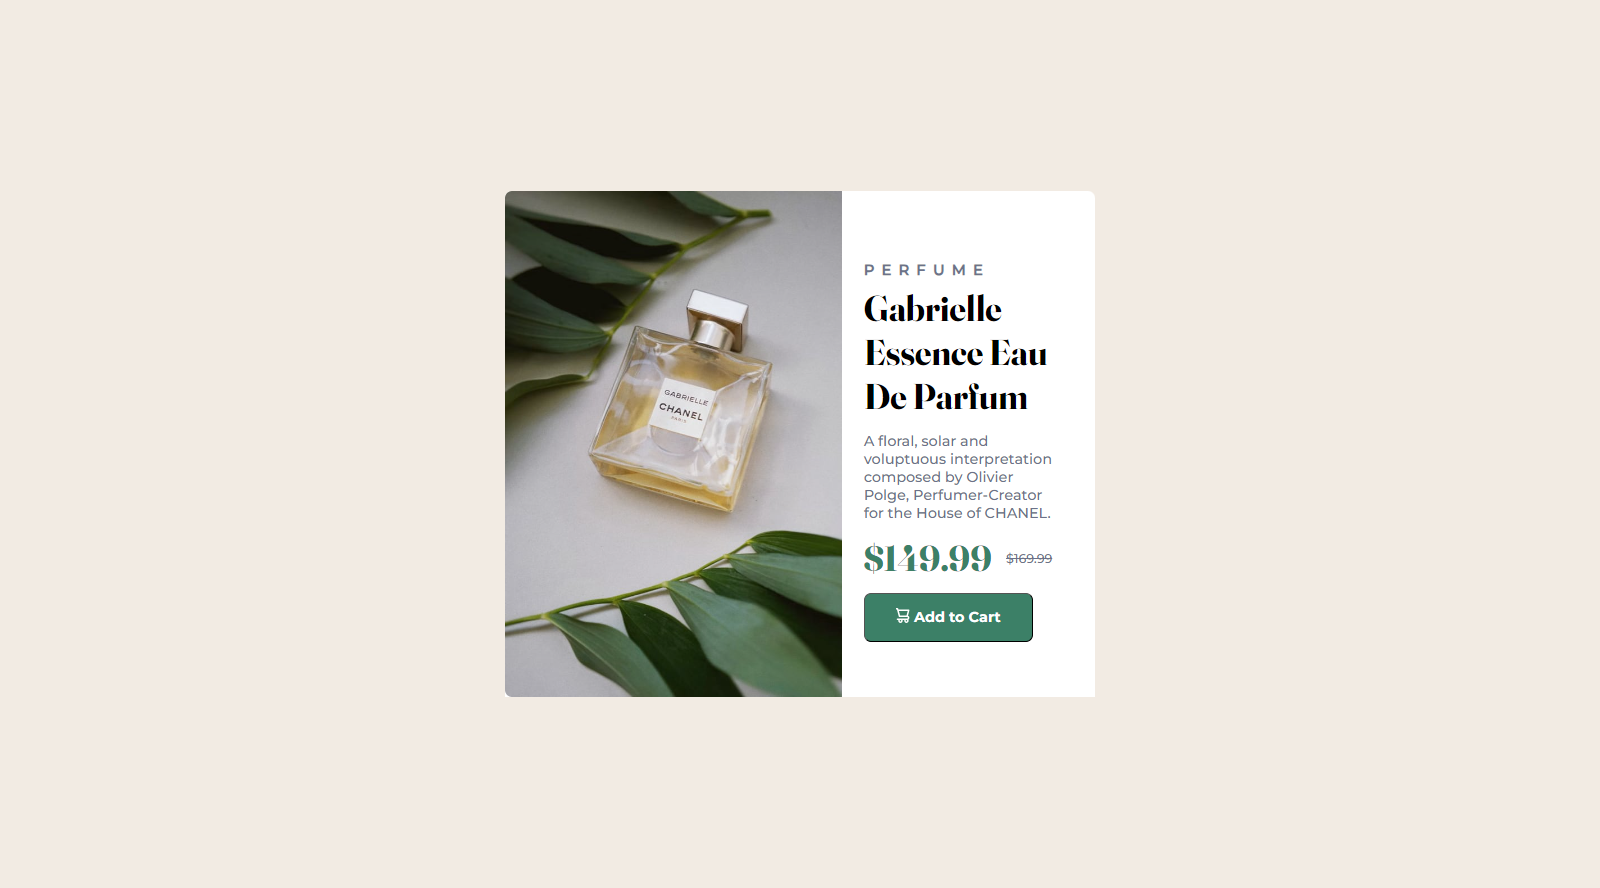
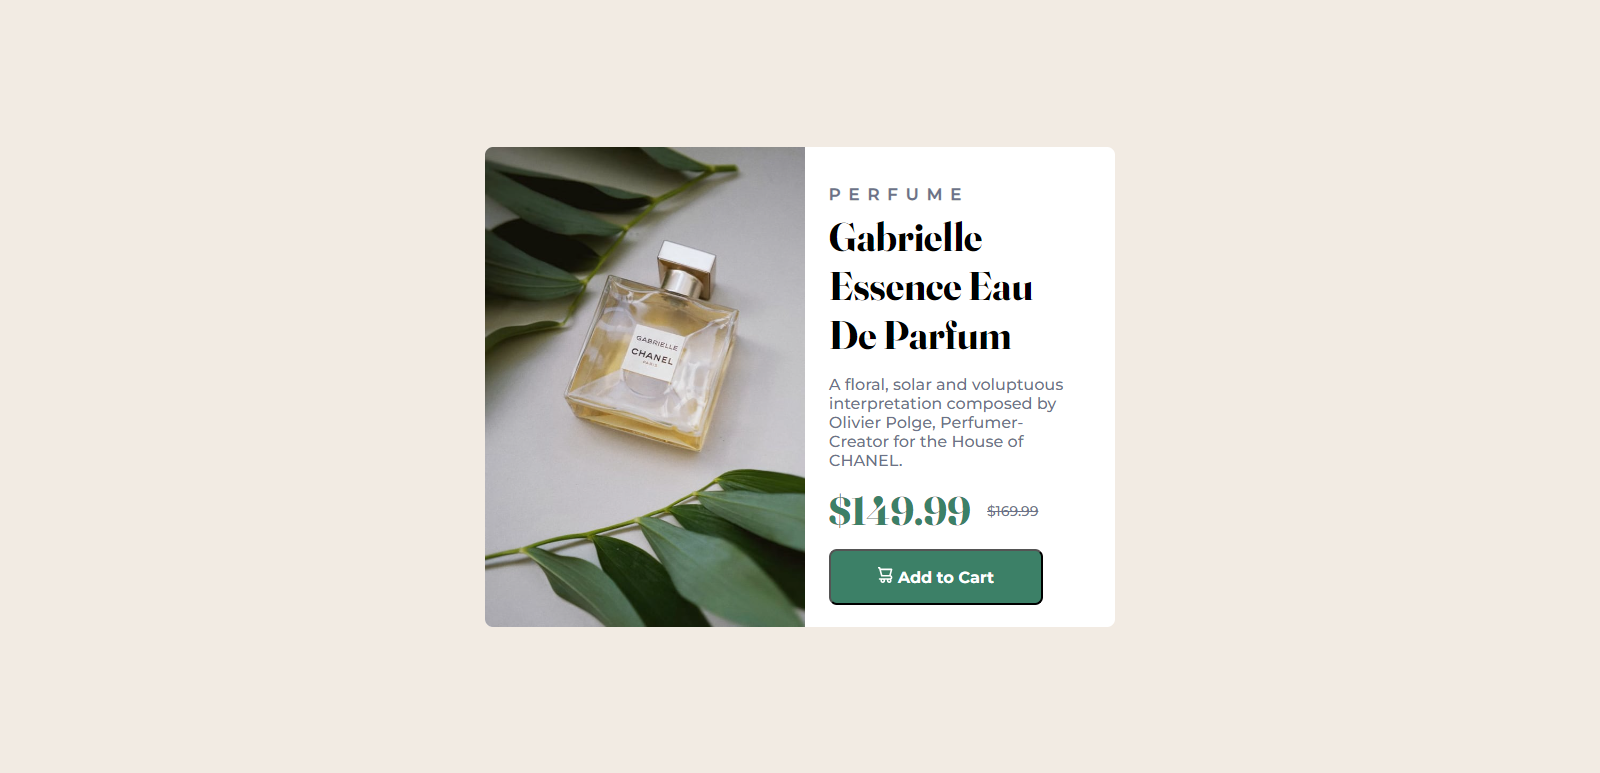
improved my solution

Changed region(s): [[0.2812, 0.1863, 0.7188, 0.8383]]

diff --git a/style.css b/style.css
@@ -14,27 +14,30 @@
     font-weight: 700;
 }
 body{
-    width: 100%;
-    max-width: 375px;
-    box-sizing: border-box;
     background-color:hsl(30, 38%, 92%) ;
     font-size: 0.875rem;
     display: flex;
     align-items: center;
     justify-content: center;
-    margin: 3rem auto;
+    flex-direction: column;
+    flex-wrap: wrap;
+    
 }
 .perfume{
     background-color: hsl(0, 0%, 100%);
-    border-radius: 0.5rem 0.5rem 0 0;
+    border-radius: 0.5rem;
     padding-bottom: 2rem;
+    max-width: 375px;
+    width: 90%;
+    margin: auto;
 }
 .content-container{
     padding-left: 1.5rem;
     padding-right: 1rem;
 }
 .perfume-image{
-    max-width: 375px;
+    width: 100%;
+    border-radius: 0.5rem 0.5rem 0 0;
 }
 .product-name{
     text-transform: uppercase;
@@ -81,18 +84,22 @@ button{
     font-size: 1rem;
     width: 90%;
 }
-@media (min-width:375px) {
+
+@media (min-width:376px) {
     .perfume-image{
         content: url('images/image-product-desktop.jpg');
         border-radius: 0.5rem 0 0 0.5rem;
+        width: 20rem;
+        height: 30rem;
     }
     .perfume{
         display: flex;
         flex-direction: row;
         align-items: center;
-        justify-content: center;
         padding-bottom: 0;
         padding-right: 2rem;
-        margin: 25% 0;
-    }
+        border-radius: 0.5rem;
+        max-width: 45%;
+        margin: 10% auto;
+}
 }

diff --git a/index.html b/index.html
@@ -19,10 +19,11 @@
             <p class="price"> <span class="discount-price">$149.99 </span>
             <span class="original-price">  $169.99 </span></p>
             <button>                                
-                <img src="images\icon-cart.svg" alt="Cart Icon">
+                <img src="images/icon-cart.svg" alt="Cart Icon">
                 Add to Cart 
             </button>
             </div>
+           
         </section>
     </main>
 </body>
